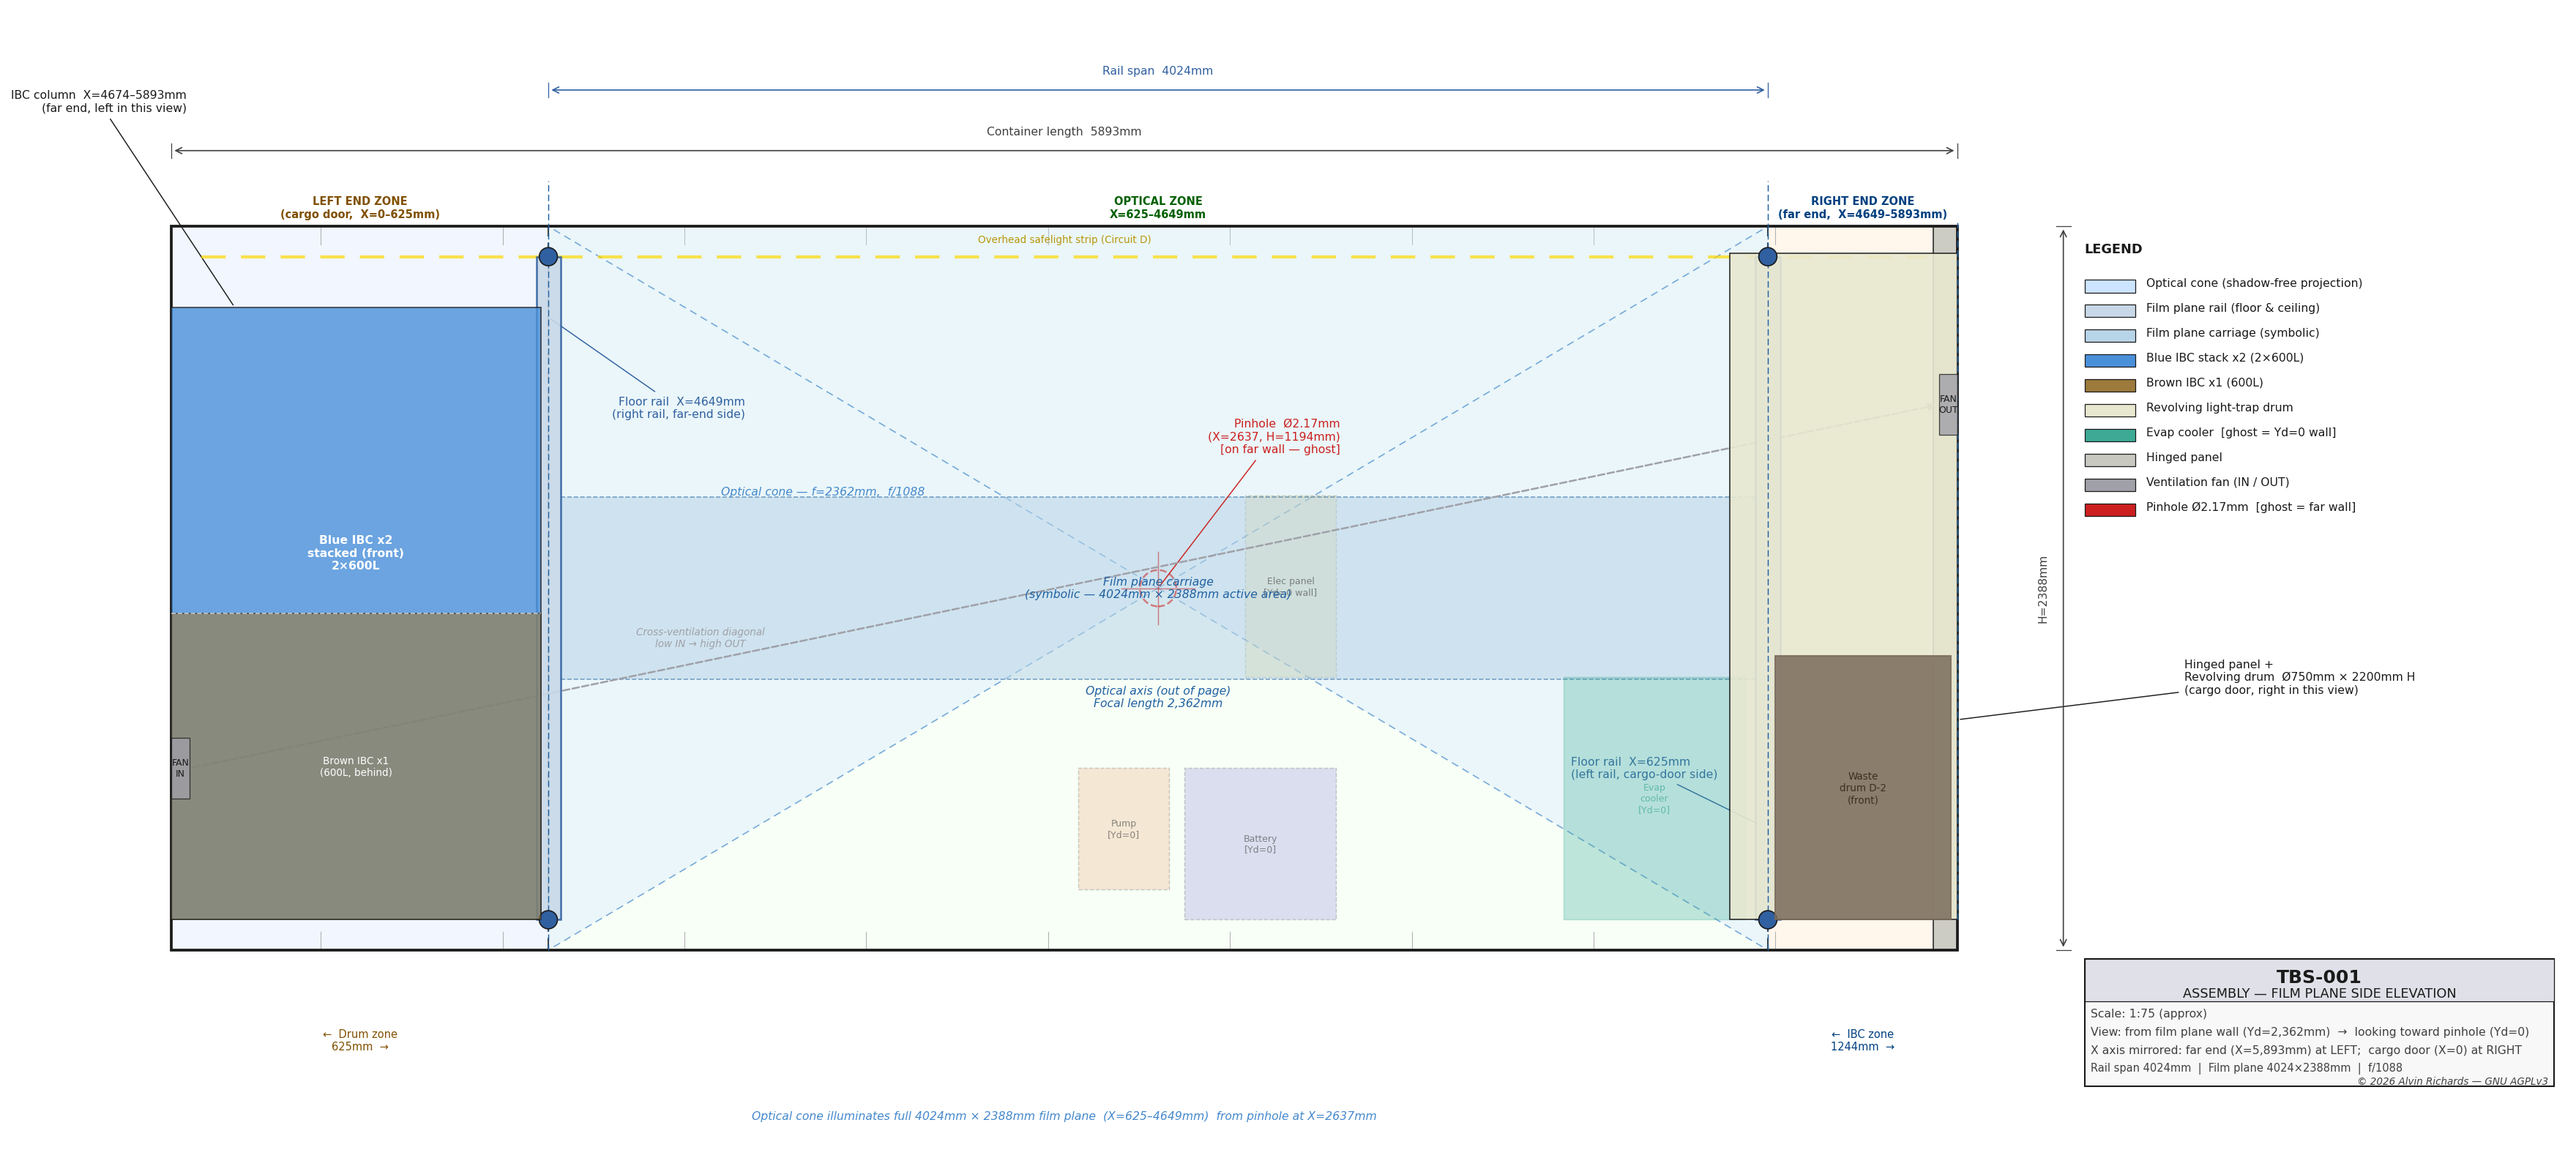
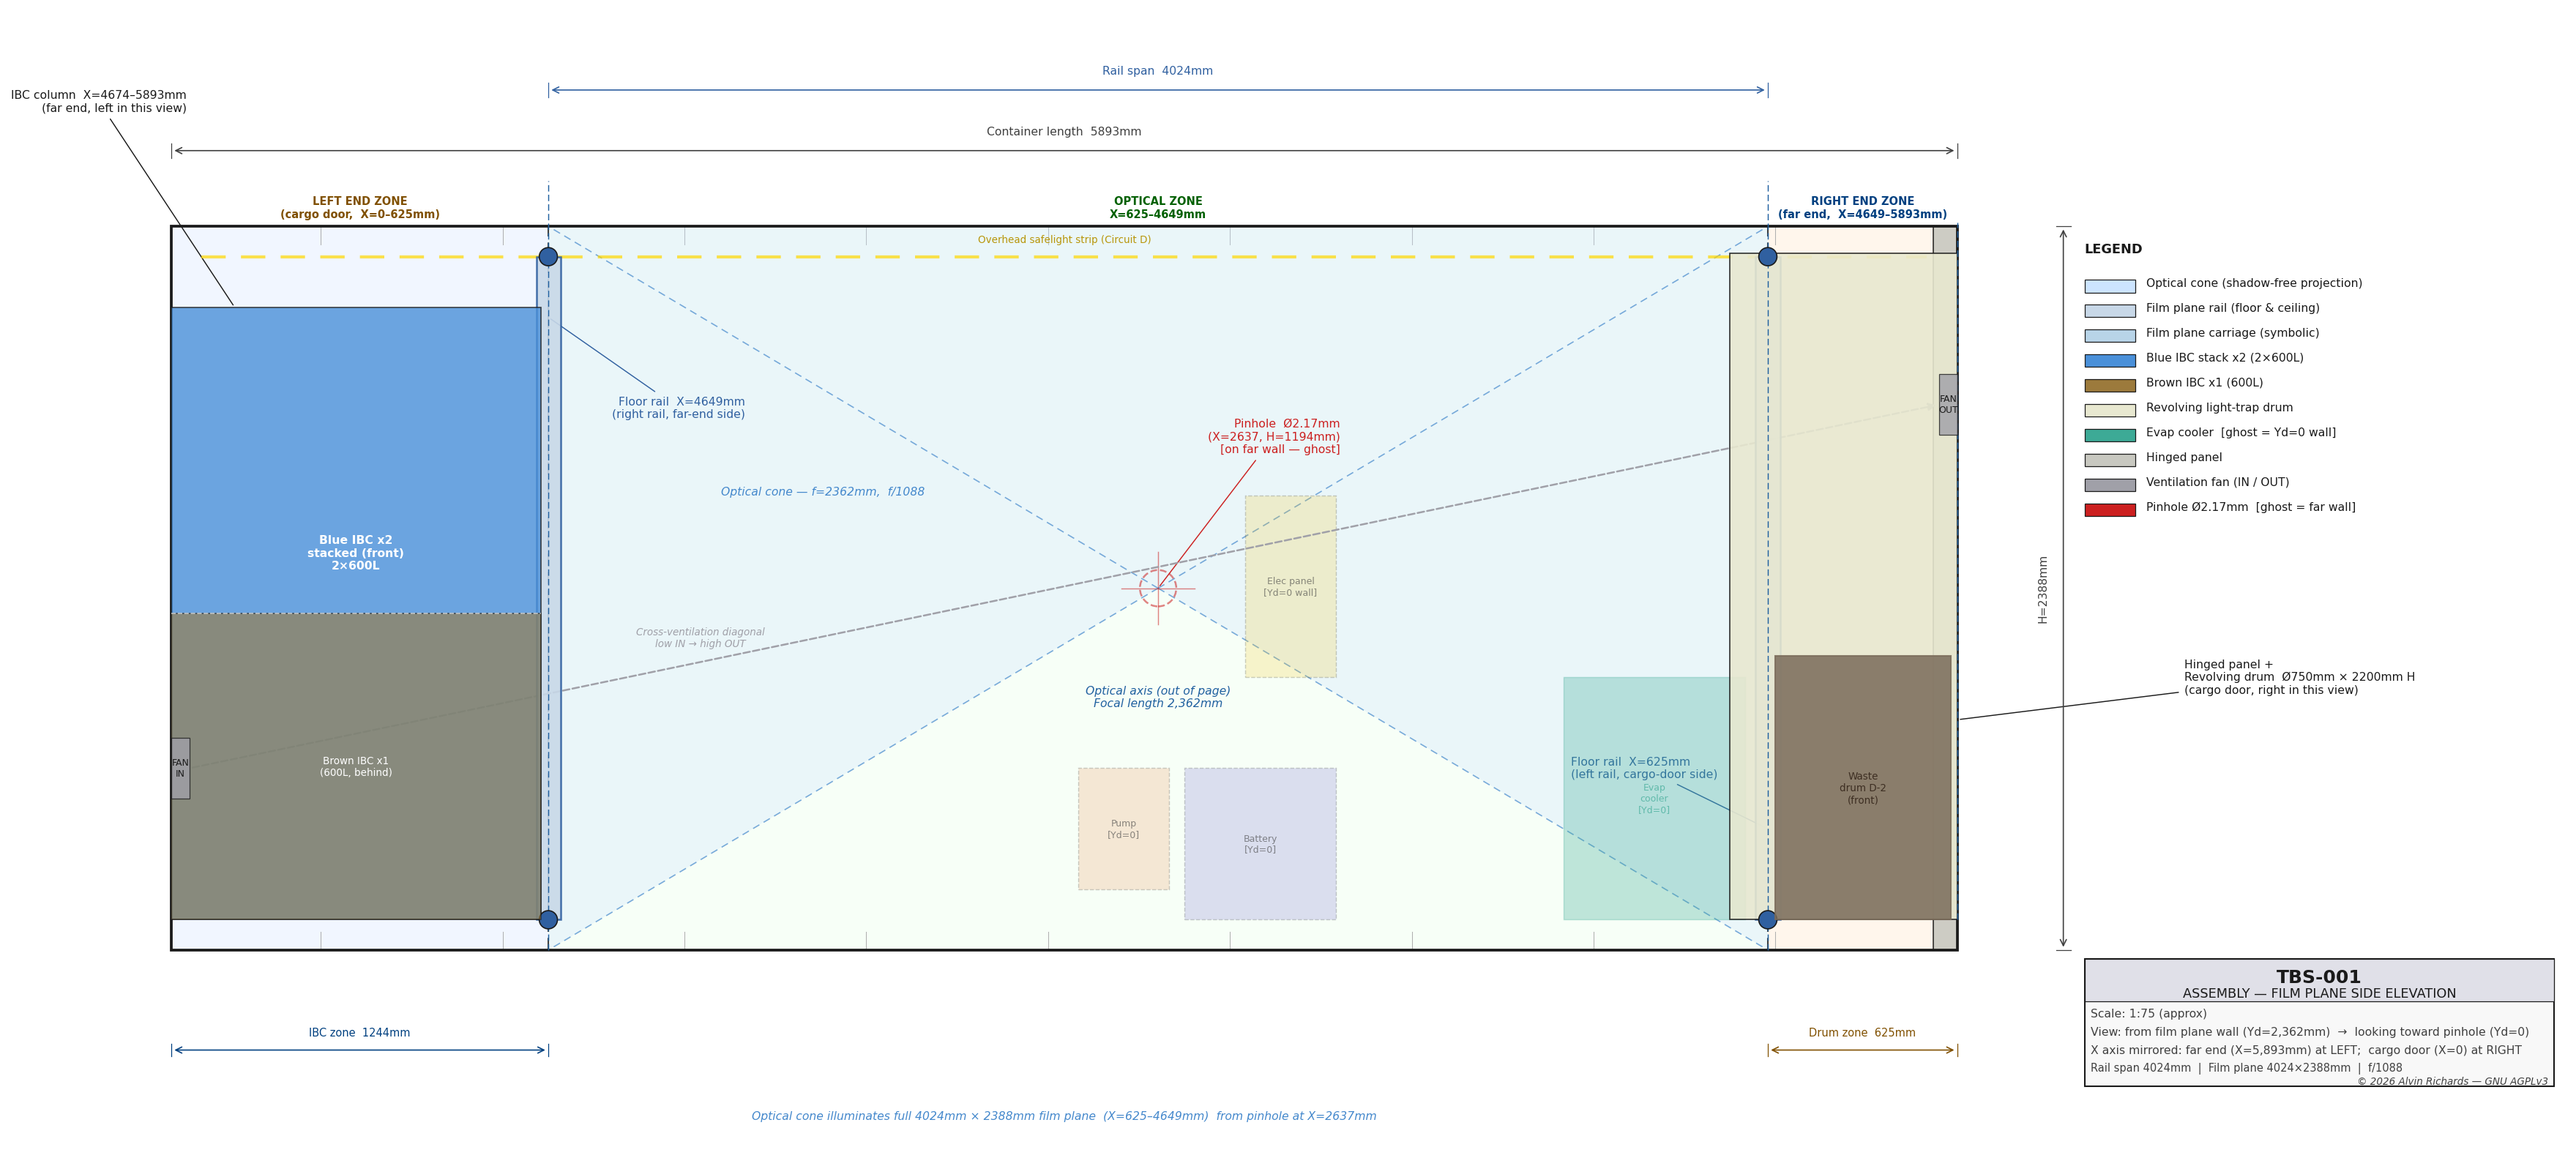
Fix Drum/IBC zone annotation arrows in assembly-overview-fp
Labels were placed at swapped X positions and used plain text ASCII
arrows instead of measured dimension lines. Replaced both with dim2h()
calls positioned over the correct zones:
  IBC zone  1,244mm  — left side (far end, X=4649–5893mm)
  Drum zone 1,100mm  — right side (cargo door, X=0–1100mm)

Changed region(s): [[0.2168, 0.4027, 0.6814, 0.5885], [0.7124, 0.8673, 0.7434, 0.9292], [0.1239, 0.8673, 0.1549, 0.9292]]

diff --git a/generate_assembly_overview.py b/generate_assembly_overview.py
@@ -562,16 +562,16 @@ for rx in [RAIL_X_L, RAIL_X_R]:
 
 # ── FILM PLANE carriage (symbolic) ───────────────────────────────────────────
 # Carriage shown at mid-height and a representative depth (schematic only)
-CAR_H_MID = C_HGT // 2
-CAR_H_SZ  = 300    # half-height of carriage symbol
-ax2.add_patch(mpatches.Rectangle(
-    (mx(FP_X_R) + RAIL_T, CAR_H_MID - CAR_H_SZ), FP_W - 2 * RAIL_T, CAR_H_SZ * 2,
-    facecolor=C_FILM_PLN, edgecolor=C_CL, linewidth=0.8, linestyle="--",
-    alpha=0.55, zorder=3))
-ax2.text(mx((FP_X_L + FP_X_R) / 2), CAR_H_MID,
-        f"Film plane carriage\n(symbolic — {FP_W}mm × {C_HGT}mm active area)",
-        ha="center", va="center", fontsize=FS_SM, color=C_CL,
-        style="italic", zorder=7)
+# CAR_H_MID = C_HGT // 2
+# CAR_H_SZ  = 300    # half-height of carriage symbol
+# ax2.add_patch(mpatches.Rectangle(
+#     (mx(FP_X_R) + RAIL_T, CAR_H_MID - CAR_H_SZ), FP_W - 2 * RAIL_T, CAR_H_SZ * 2,
+#     facecolor=C_FILM_PLN, edgecolor=C_CL, linewidth=0.8, linestyle="--",
+#     alpha=0.55, zorder=3))
+# ax2.text(mx((FP_X_L + FP_X_R) / 2), CAR_H_MID,
+#         f"Film plane carriage\n(symbolic — {FP_W}mm × {C_HGT}mm active area)",
+#         ha="center", va="center", fontsize=FS_SM, color=C_CL,
+#         style="italic", zorder=7)
 
 # Rail anchor marks at floor and ceiling
 for rx in [RAIL_X_L, RAIL_X_R]:
@@ -728,13 +728,15 @@ ax2.text(C_LEN/2, DIM_BOT2 - 280,
         f"  (X={FP_X_L}–{FP_X_R}mm)  from pinhole at X={PH_X}mm",
         ha="center", va="top", fontsize=FS_SM, color=C_CONE, style="italic")
 
-# Left/right zone width labels (note swapped labels)
-ax2.text(mx(ZONE_L_END/2), DIM_BOT2 - 80,
-        f"←  IBC zone\n{C_LEN-ZONE_R_START}mm  →", ha="center",
-        fontsize=FS_SM - 0.5, color="#004080")
-ax2.text(mx((ZONE_R_START + C_LEN)/2), DIM_BOT2 - 80,
-        f"←  Drum zone\n{ZONE_L_END}mm  →", ha="center",
-        fontsize=FS_SM - 0.5, color="#805000")
+# Zone width dimension lines — dim2h handles mirroring correctly
+# IBC zone: real X = ZONE_R_START–C_LEN  (appears on LEFT in this view)
+dim2h(ZONE_R_START, C_LEN, DIM_BOT2 - 80,
+      f"IBC zone  {C_LEN - ZONE_R_START}mm",
+      offset=70, fs=FS_SM - 0.5, color="#004080")
+# Drum zone: real X = 0–ZONE_L_END  (appears on RIGHT in this view)
+dim2h(0, ZONE_L_END, DIM_BOT2 - 80,
+      f"Drum zone  {ZONE_L_END}mm",
+      offset=70, fs=FS_SM - 0.5, color="#805000")
 
 # ── Legend ────────────────────────────────────────────────────────────────────
 LEG2_X = C_LEN + 420
